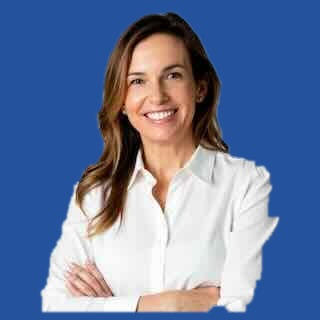
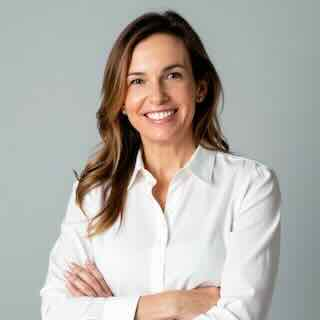
Add files via upload

diff --git a/index.html b/index.html
@@ -166,8 +166,8 @@
   <div class="about-grid">
     <div class="about-text">
       <h2 class="section-title">Driven by outcomes<br>for mothers and families</h2>
-      <p style="font-size:14px;color:var(--ink-muted);max-width:620px;line-height:1.9;margin-bottom:1rem;">Dr. Emerson is an implementation scientist with over 15 years of experience designing, evaluating, and scaling maternal, child, and reproductive health programs — with field experience spanning the Democratic Republic of Congo, Côte d'Ivoire, Haiti, Mexico, Burkina Faso, and the United States.</p>
-      <p style="font-size:14px;color:var(--ink-muted);max-width:620px;line-height:1.9;">Her work sits at the seam between rigorous research and real-world practice: generating evidence through mixed-methods and community-engaged research, then translating it into policy, program design, and stronger health systems. Across her career she has led multi-site studies, built monitoring and evaluation systems, strengthened health-provider capacity, and helped move large-scale nutrition and maternal health programs from pilot to national scale.</p>
+      <p style="font-size:14px;color:var(--ink-muted);max-width:620px;line-height:1.9;margin-bottom:1rem;">Dr. Emerson is an implementation scientist with over 15 years of experience designing, evaluating, and scaling maternal, child, and reproductive health programs — with field experience spanning the Democratic Republic of Congo, Côte d'Ivoire, Haiti, Madagascar, Mexico, Burkina Faso, and the United States.</p>
+      <p style="font-size:14px;color:var(--ink-muted);max-width:620px;line-height:1.9;">Her work sits at the seam between rigorous research and real-world practice: generating evidence through mixed-methods and community-engaged research, then translating it into policy, program design, and stronger health systems. She is particularly focused on using data to demonstrate impact and make the case for investment — turning evidence into the metrics that mobilize funding and direct resources to where they improve outcomes. Across her career she has led multi-site studies, built monitoring and evaluation systems, strengthened health-provider capacity, and helped move large-scale nutrition and maternal health programs from pilot to national scale.</p>
     </div>
     <div class="about-photo">
       <img src="headshot.jpg" alt="Jillian A. Emerson, PhD">